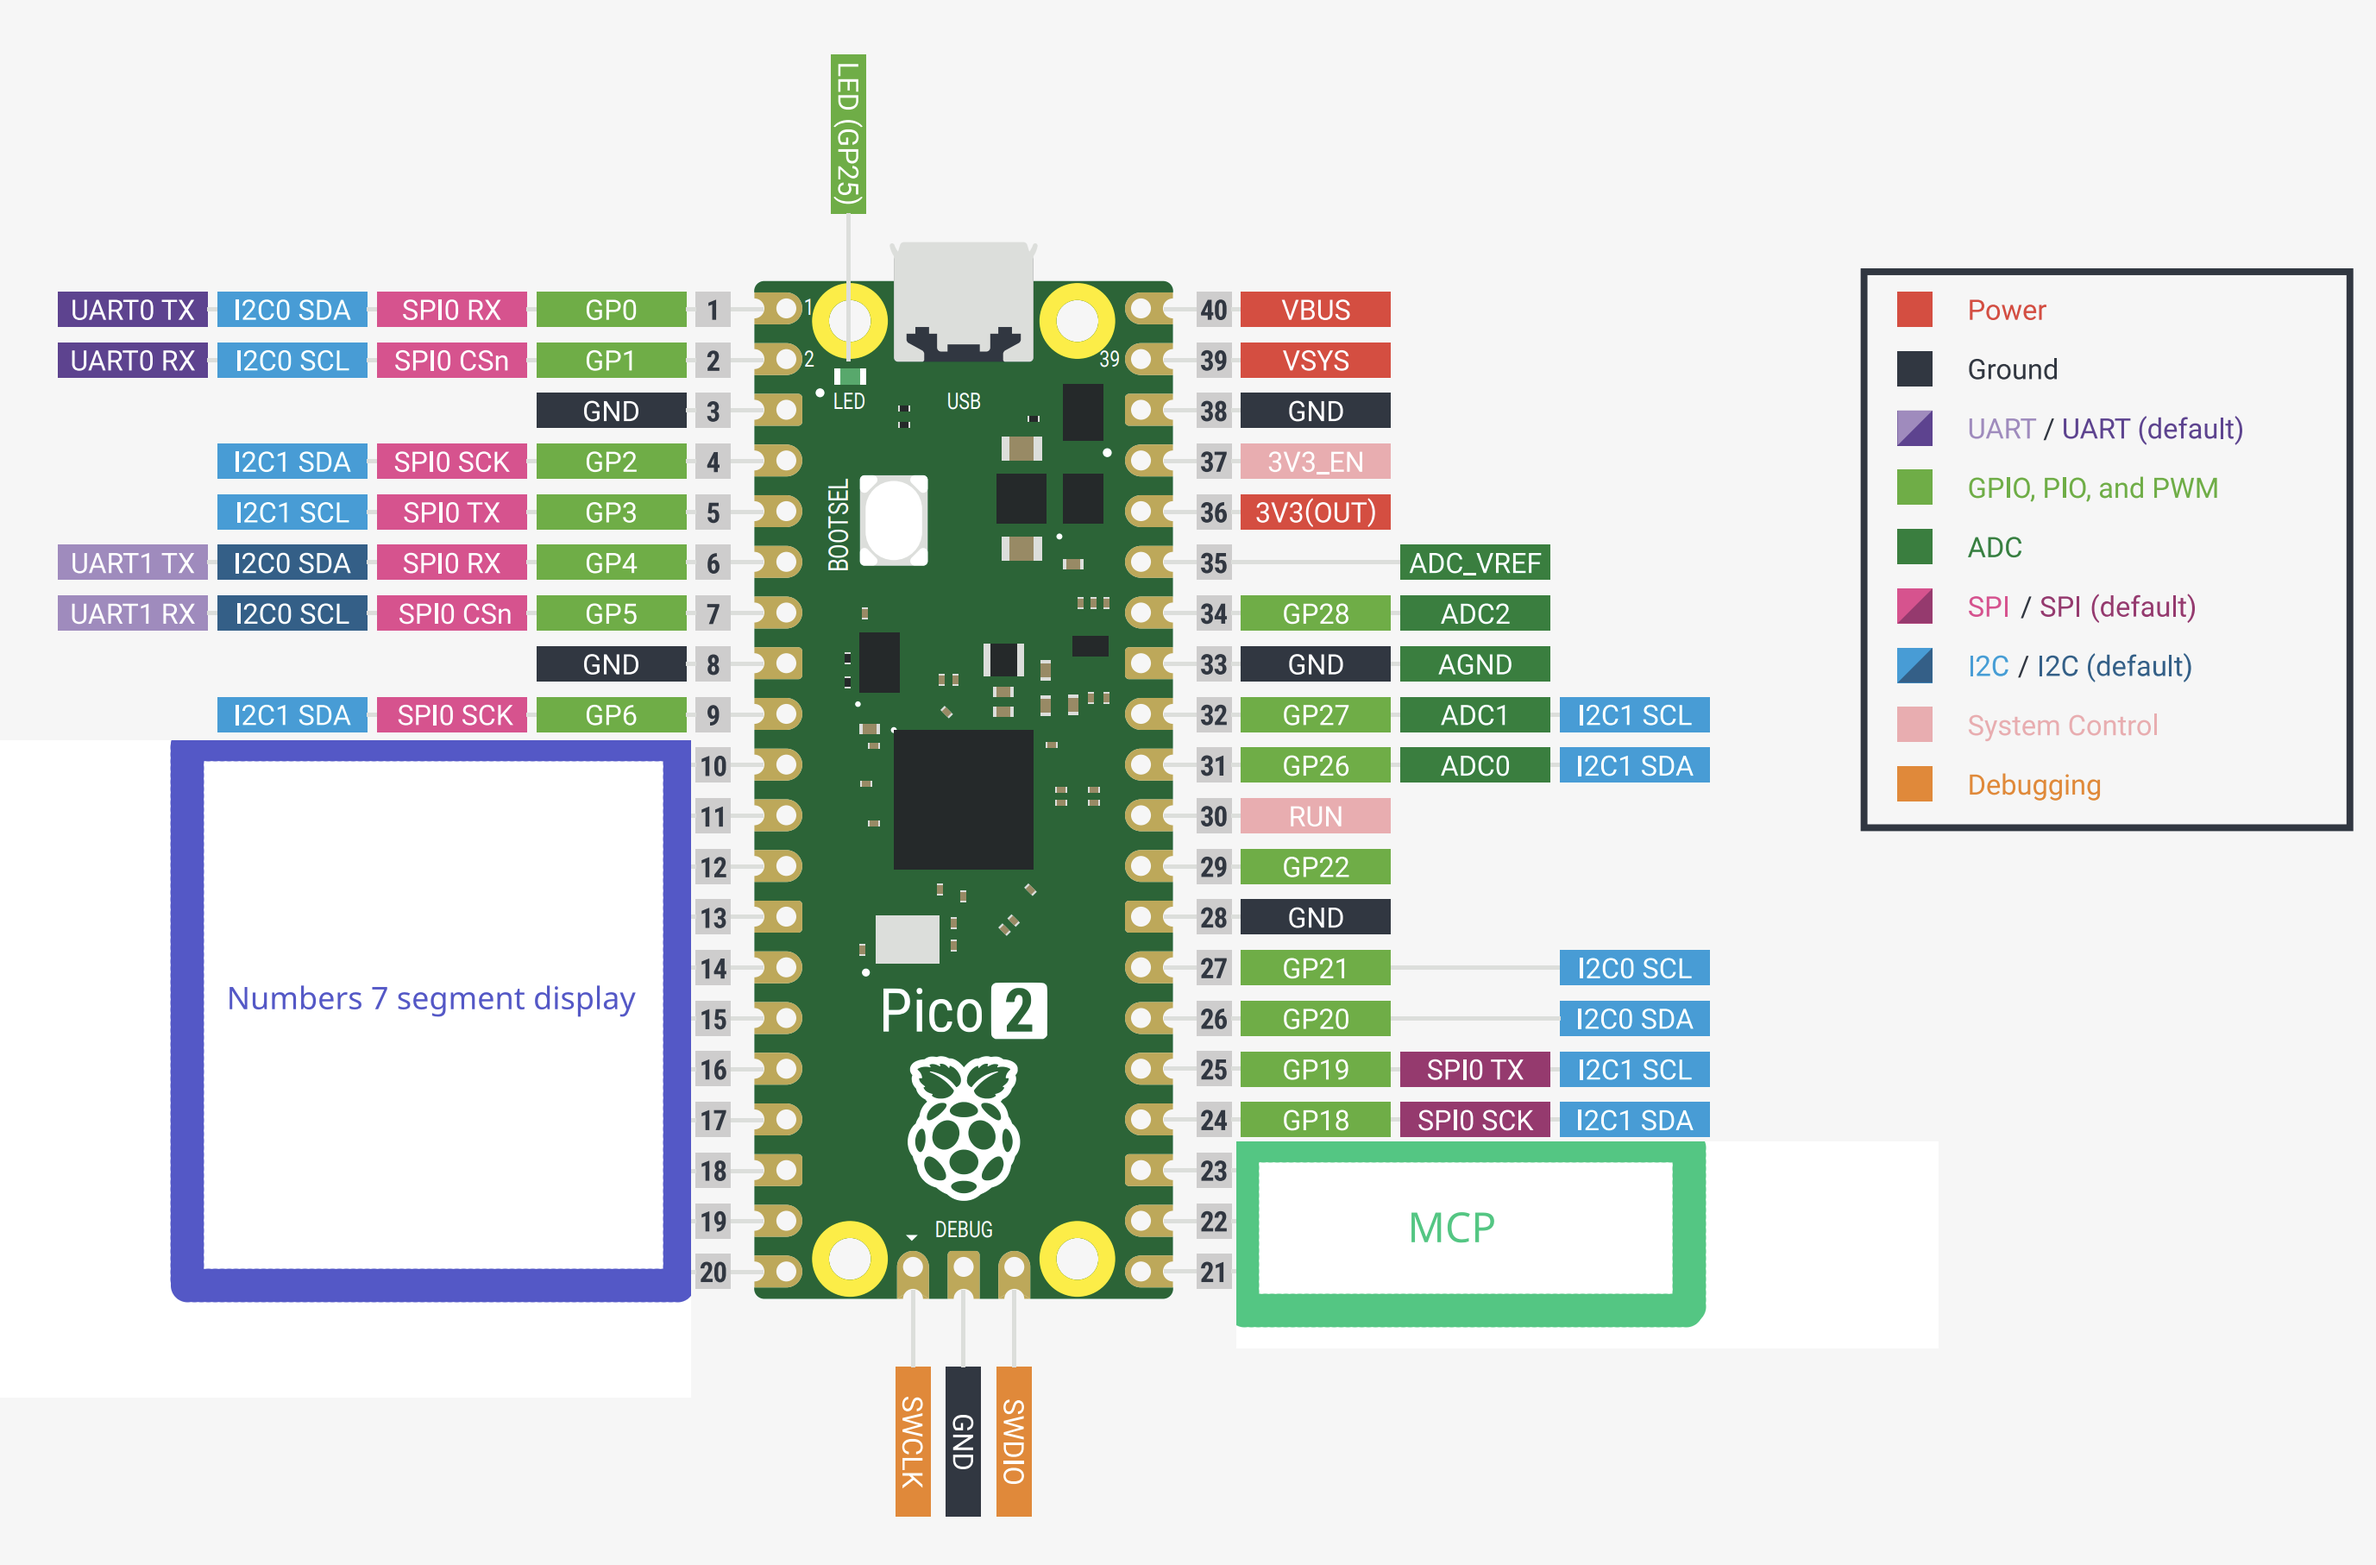
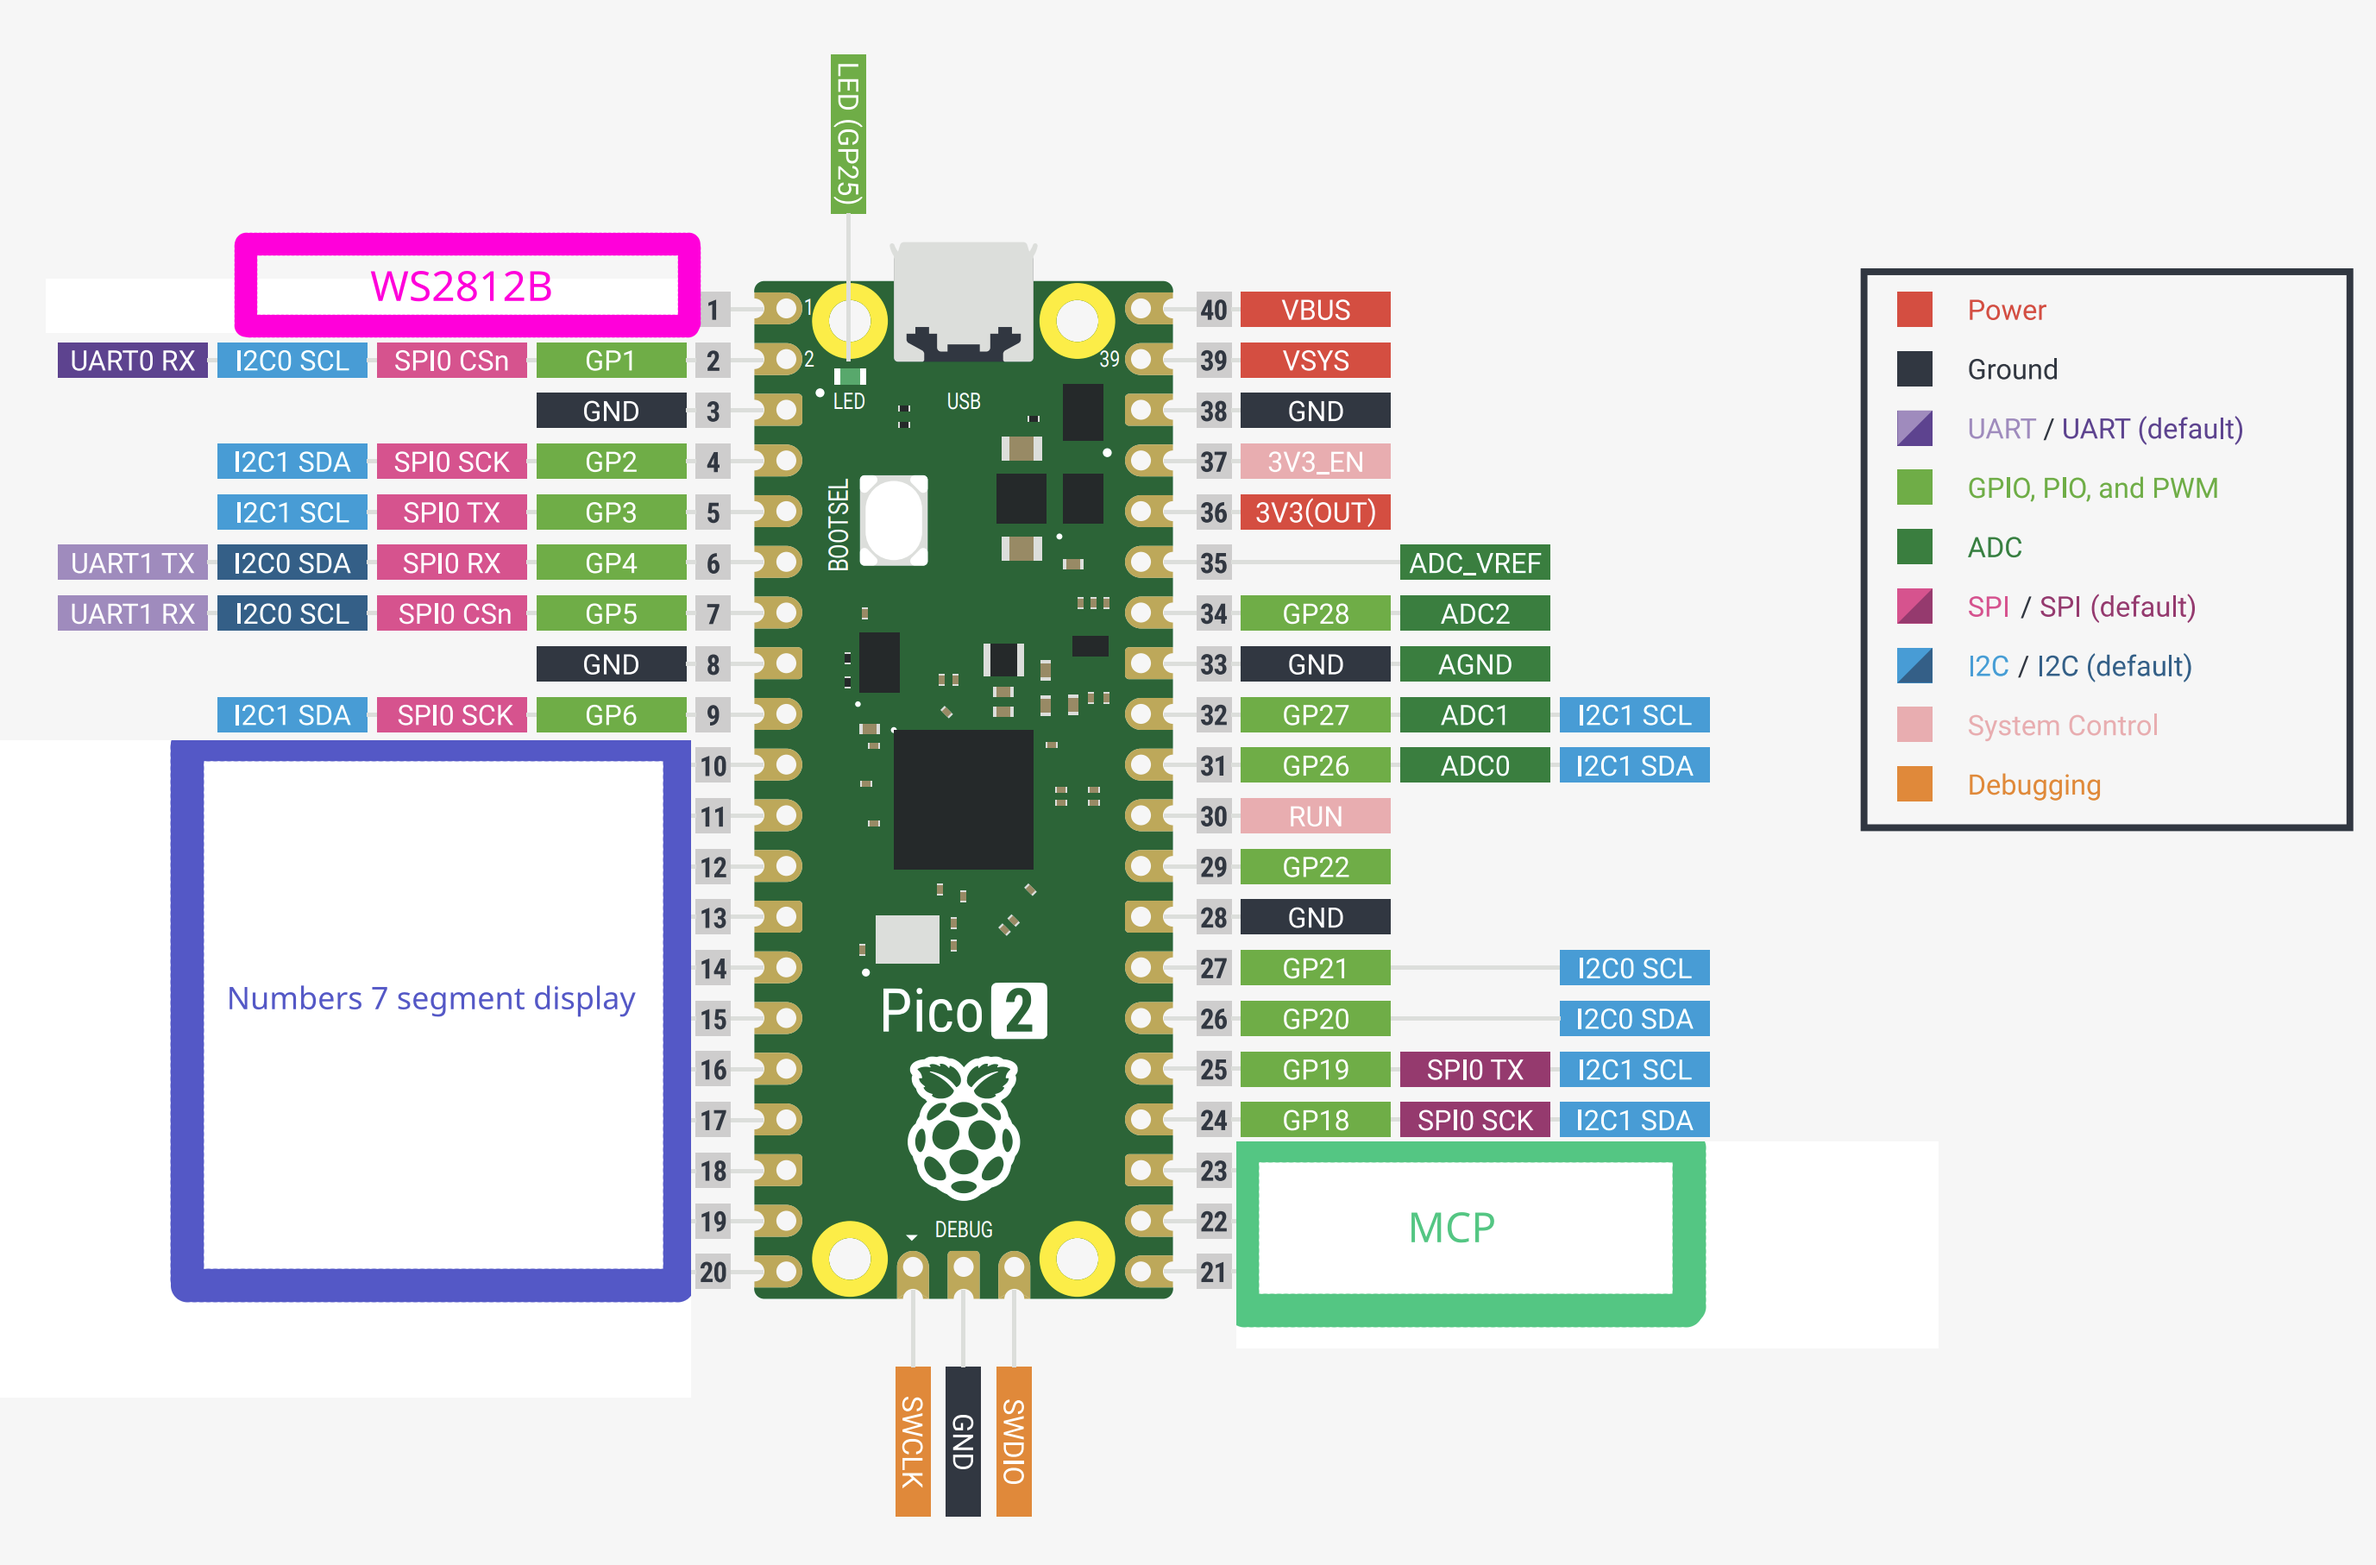
updated pins

Changed region(s): [[0.0, 0.1235, 0.3123, 0.2161]]

diff --git a/src/main.c b/src/main.c
@@ -28,9 +28,9 @@ int main() {
 
 	if (!set_sys_clock_khz(48'000, false)) utils_error_mode(47);
 
-	mcp_init(); // init first, other modules use mcp
-	numbers_init();
 	wsleds_init();
+	mcp_init();
+	numbers_init();
 	status_init(); // init last, needs other modules up and running
 
 	adc_init();

diff --git a/src/modules/wsleds/wsleds.c b/src/modules/wsleds/wsleds.c
@@ -78,6 +78,8 @@ void wsleds_init() {
 	pio_wsleds_program_init(MOD_WSLEDS_PIO, MOD_WSLEDS_SM, offset, MOD_WSLEDS_PIN, clk_div);
 	pio_sm_set_enabled(MOD_WSLEDS_PIO, MOD_WSLEDS_SM, true);
 	sleep_ms(1);
+
+	wsleds_transfer(); // show flag idk
 }
 
 void wsleds_transfer() {

diff --git a/src/renderer.c b/src/renderer.c
@@ -99,7 +99,6 @@ void renderer_loop() {
 		acc_elapsed_us += (remaining_us + elapsed_us);
 
 		if (acc_elapsed_us >= 10 * 1'000'000) { // 10 seconds
-			wsleds_transfer(); // actually looks better lol
 			if (test == true) {
 				test = false;
 			} else {
